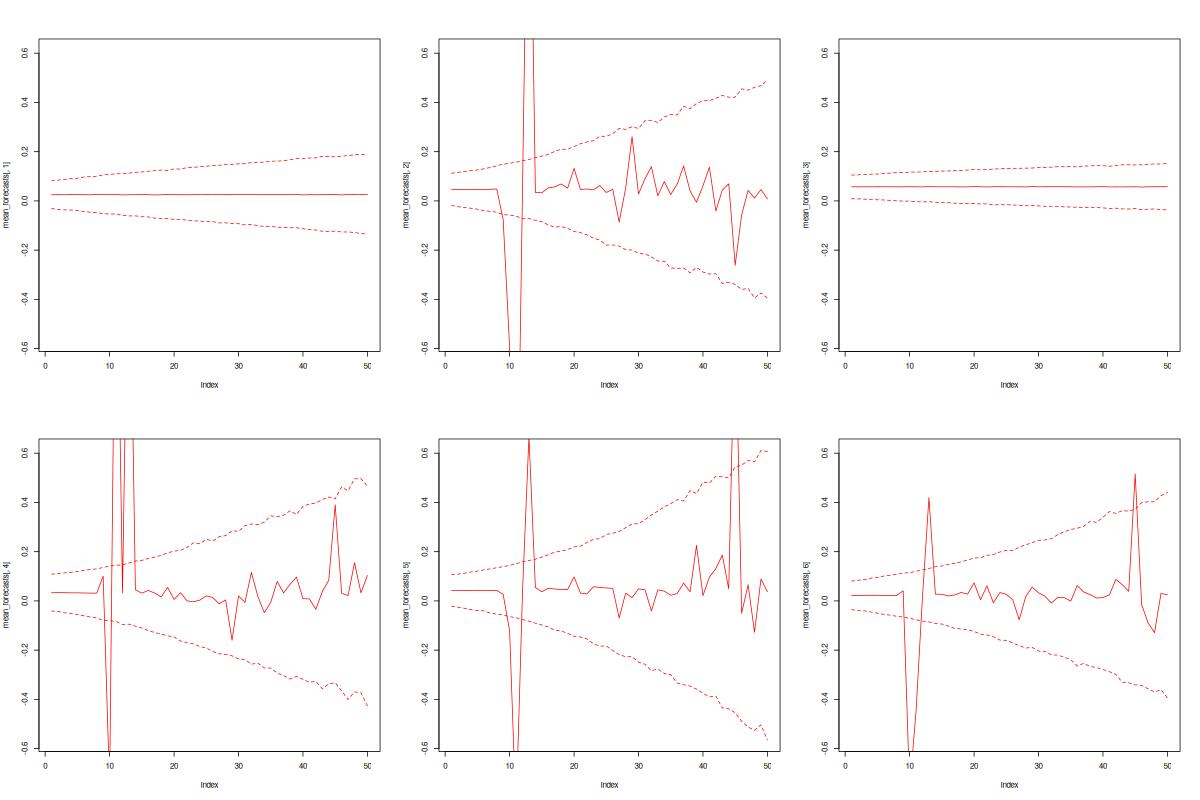
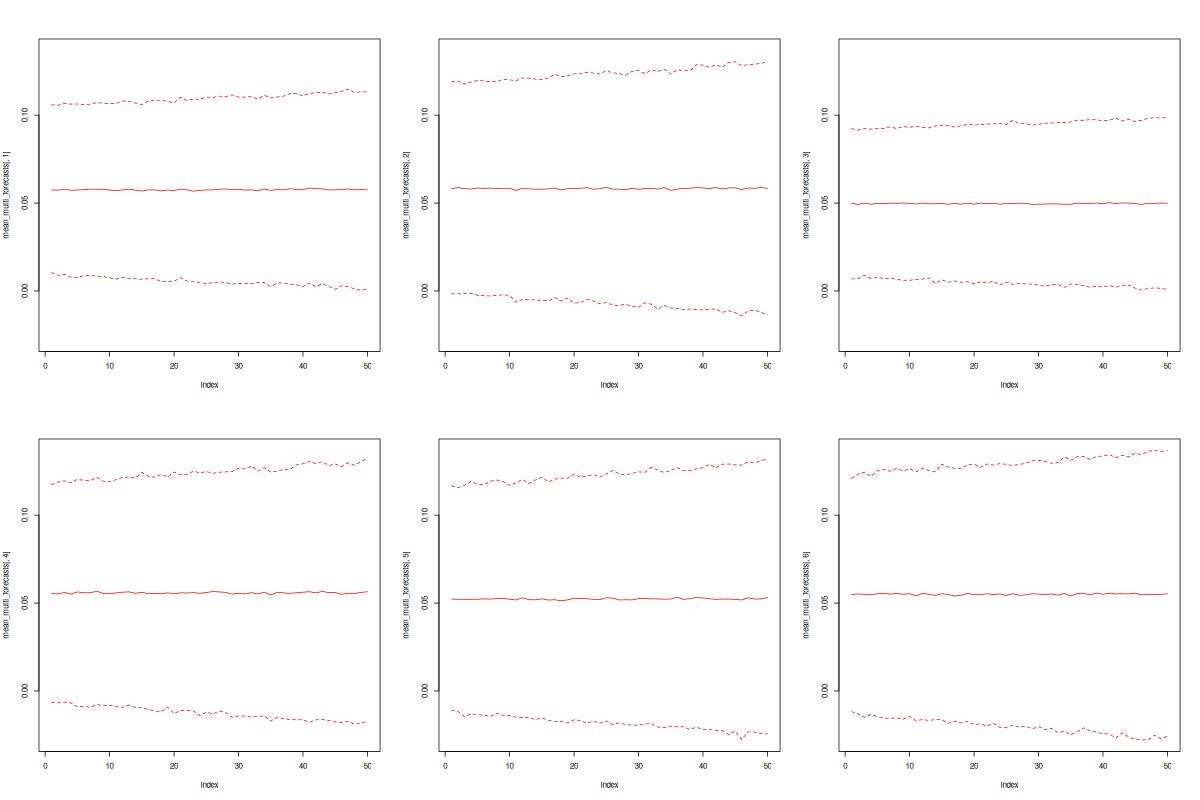
revert to matrix delta discounting

diff --git a/rSGDLM/src/SGDLM/RcppWrapper.cpp b/rSGDLM/src/SGDLM/RcppWrapper.cpp
@@ -125,18 +125,23 @@ Rcpp::List SGDLM::RcppWrapper<DOUBLE>::getDiscountFactors() const {
   DEBUG_LOGGER << "RcppWrapper::getDiscountFactors()" << ENDL;
 
   std::size_t m = wrapper->getNoSeries();
+  std::size_t max_p = wrapper->getMaxP();
+
+  std::size_t dim[] = {max_p, max_p, m};
+  std::size_t no_elements = dim[0] * dim[1] * dim[2];
 
   memory_manager_RCPP host_MEM_temp;
 
   DOUBLE *data_beta = host_MEM_temp.host_alloc_vec<DOUBLE>(m);
-  DOUBLE *data_delta = host_MEM_temp.host_alloc_vec<DOUBLE>(m);
+  DOUBLE *data_delta = host_MEM_temp.host_alloc_vec<DOUBLE>(no_elements);
 
   wrapper->getDiscountFactors(data_beta, data_delta);
 
   std::vector<DOUBLE> beta =
       memory_manager_RCPP::getSTDVector<DOUBLE>(data_beta, m);
-  std::vector<DOUBLE> delta =
-      memory_manager_RCPP::getSTDVector<DOUBLE>(data_delta, m);
+  Rcpp::NumericVector delta =
+      memory_manager_RCPP::getRcppVector<DOUBLE, Rcpp::NumericVector>(
+          data_delta, 3, dim);
 
   return Rcpp::List::create(Rcpp::Named("beta") = beta,
                             Rcpp::Named("delta") = delta);
@@ -144,15 +149,26 @@ Rcpp::List SGDLM::RcppWrapper<DOUBLE>::getDiscountFactors() const {
 
 template <typename DOUBLE>
 void SGDLM::RcppWrapper<DOUBLE>::setDiscountFactors(
-    const std::vector<DOUBLE> &beta, const std::vector<DOUBLE> &delta) {
+    const std::vector<DOUBLE> &beta, const Rcpp::NumericVector &delta) {
   DEBUG_LOGGER << "RcppWrapper::setDiscountFactors()" << ENDL;
 
+  Rcpp::Dimension dim_arg_2 = delta.attr("dim");
+
+  if (dim_arg_2.size() != 3) {
+    ERROR_LOGGER << "Incorrect dimension of delta" << ENDL;
+    return;
+  }
+
   std::size_t m = wrapper->getNoSeries();
+  std::size_t max_p = wrapper->getMaxP();
 
   std::size_t m_arg_1 = beta.size();
-  std::size_t m_arg_2 = delta.size();
+  std::size_t m_arg_2 = dim_arg_2[2];
+  std::size_t max_p_arg_2_0 = dim_arg_2[0];
+  std::size_t max_p_arg_2_1 = dim_arg_2[1];
 
-  if (m_arg_1 != m || m_arg_2 != m) {
+  if (m_arg_1 != m || m_arg_2 != m || max_p_arg_2_0 != max_p ||
+      max_p_arg_2_1 != max_p) {
     ERROR_LOGGER << "Dimensions of input arguments are incompatible" << ENDL;
     return;
   }
@@ -161,7 +177,7 @@ void SGDLM::RcppWrapper<DOUBLE>::setDiscountFactors(
 
   DOUBLE *data_beta = host_MEM_temp.getData<DOUBLE, std::vector<DOUBLE>>(beta);
   DOUBLE *data_delta =
-      host_MEM_temp.getData<DOUBLE, std::vector<DOUBLE>>(delta);
+      host_MEM_temp.getData<DOUBLE, Rcpp::NumericVector>(delta);
 
   wrapper->setDiscountFactors(data_beta, data_delta);
 }

diff --git a/rSGDLM/src/SGDLM/RcppWrapper.hpp b/rSGDLM/src/SGDLM/RcppWrapper.hpp
@@ -42,7 +42,7 @@ public:
   Rcpp::List getDiscountFactors() const;
 
   void setDiscountFactors(const std::vector<DOUBLE> &beta,
-                          const std::vector<DOUBLE> &delta);
+                          const Rcpp::NumericVector &delta);
 
   Rcpp::List getParameters() const;
 

diff --git a/README.md b/README.md
@@ -78,8 +78,8 @@ sgdlm1$setSimultaneousParents(p, sp)
 
 # set discount factors
 beta = rep(.95, m)
-delta = rep(.975, m)
-sgdlm1$setDiscountFactors(beta, delta)
+Delta = array(.975, c(max(p), max(p), m))
+sgdlm1$setDiscountFactors(beta, Delta)
 
 # set initial parameters
 a = array(0, c(max(p), m))
@@ -207,29 +207,29 @@ multi_step_forecasts = sgdlm1$computeForecast(
   nsim_batch = 10000,
   F_tp1 = array(F_tp1, c(dim(F_tp1), 50))
 )
-mean_forecasts = t(apply(multi_step_forecasts, c(1, 3), mean))
-upper_bound_forecasts = t(apply(multi_step_forecasts, c(1, 3), quantile, .95, na.rm = TRUE))
-lower_bound_forecasts = t(apply(multi_step_forecasts, c(1, 3), quantile, .05, na.rm = TRUE))
+mean_multi_forecasts = t(apply(multi_step_forecasts, c(1, 3), mean))
+upper_bound_multi_forecasts = t(apply(multi_step_forecasts, c(1, 3), quantile, .95, na.rm = TRUE))
+lower_bound_multi_forecasts = t(apply(multi_step_forecasts, c(1, 3), quantile, .05, na.rm = TRUE))
 
 par(mfrow = c(2, 3))
-plot(mean_forecasts[,1], ylim = c(min(lower_bound_forecasts, na.rm = TRUE), max(upper_bound_forecasts, na.rm = TRUE)), type = 'l', col = 'red')
-lines(upper_bound_forecasts[,1], col = 'red', lty = 'dashed')
-lines(lower_bound_forecasts[,1], col = 'red', lty = 'dashed')
-plot(mean_forecasts[,2], ylim = c(min(lower_bound_forecasts, na.rm = TRUE), max(upper_bound_forecasts, na.rm = TRUE)), type = 'l', col = 'red')
-lines(upper_bound_forecasts[,2], col = 'red', lty = 'dashed')
-lines(lower_bound_forecasts[,2], col = 'red', lty = 'dashed')
-plot(mean_forecasts[,3], ylim = c(min(lower_bound_forecasts, na.rm = TRUE), max(upper_bound_forecasts, na.rm = TRUE)), type = 'l', col = 'red')
-lines(upper_bound_forecasts[,3], col = 'red', lty = 'dashed')
-lines(lower_bound_forecasts[,3], col = 'red', lty = 'dashed')
-plot(mean_forecasts[,4], ylim = c(min(lower_bound_forecasts, na.rm = TRUE), max(upper_bound_forecasts, na.rm = TRUE)), type = 'l', col = 'red')
-lines(upper_bound_forecasts[,4], col = 'red', lty = 'dashed')
-lines(lower_bound_forecasts[,4], col = 'red', lty = 'dashed')
-plot(mean_forecasts[,5], ylim = c(min(lower_bound_forecasts, na.rm = TRUE), max(upper_bound_forecasts, na.rm = TRUE)), type = 'l', col = 'red')
-lines(upper_bound_forecasts[,5], col = 'red', lty = 'dashed')
-lines(lower_bound_forecasts[,5], col = 'red', lty = 'dashed')
-plot(mean_forecasts[,6], ylim = c(min(lower_bound_forecasts, na.rm = TRUE), max(upper_bound_forecasts, na.rm = TRUE)), type = 'l', col = 'red')
-lines(upper_bound_forecasts[,6], col = 'red', lty = 'dashed')
-lines(lower_bound_forecasts[,6], col = 'red', lty = 'dashed')
+plot(mean_multi_forecasts[,1], ylim = c(min(lower_bound_multi_forecasts, na.rm = TRUE), max(upper_bound_multi_forecasts, na.rm = TRUE)), type = 'l', col = 'red')
+lines(upper_bound_multi_forecasts[,1], col = 'red', lty = 'dashed')
+lines(lower_bound_multi_forecasts[,1], col = 'red', lty = 'dashed')
+plot(mean_multi_forecasts[,2], ylim = c(min(lower_bound_multi_forecasts, na.rm = TRUE), max(upper_bound_multi_forecasts, na.rm = TRUE)), type = 'l', col = 'red')
+lines(upper_bound_multi_forecasts[,2], col = 'red', lty = 'dashed')
+lines(lower_bound_multi_forecasts[,2], col = 'red', lty = 'dashed')
+plot(mean_multi_forecasts[,3], ylim = c(min(lower_bound_multi_forecasts, na.rm = TRUE), max(upper_bound_multi_forecasts, na.rm = TRUE)), type = 'l', col = 'red')
+lines(upper_bound_multi_forecasts[,3], col = 'red', lty = 'dashed')
+lines(lower_bound_multi_forecasts[,3], col = 'red', lty = 'dashed')
+plot(mean_multi_forecasts[,4], ylim = c(min(lower_bound_multi_forecasts, na.rm = TRUE), max(upper_bound_multi_forecasts, na.rm = TRUE)), type = 'l', col = 'red')
+lines(upper_bound_multi_forecasts[,4], col = 'red', lty = 'dashed')
+lines(lower_bound_multi_forecasts[,4], col = 'red', lty = 'dashed')
+plot(mean_multi_forecasts[,5], ylim = c(min(lower_bound_multi_forecasts, na.rm = TRUE), max(upper_bound_multi_forecasts, na.rm = TRUE)), type = 'l', col = 'red')
+lines(upper_bound_multi_forecasts[,5], col = 'red', lty = 'dashed')
+lines(lower_bound_multi_forecasts[,5], col = 'red', lty = 'dashed')
+plot(mean_multi_forecasts[,6], ylim = c(min(lower_bound_multi_forecasts, na.rm = TRUE), max(upper_bound_multi_forecasts, na.rm = TRUE)), type = 'l', col = 'red')
+lines(upper_bound_multi_forecasts[,6], col = 'red', lty = 'dashed')
+lines(lower_bound_multi_forecasts[,6], col = 'red', lty = 'dashed')
 ```
 ![Forecast and observed data](README-plot2.jpg)
 
